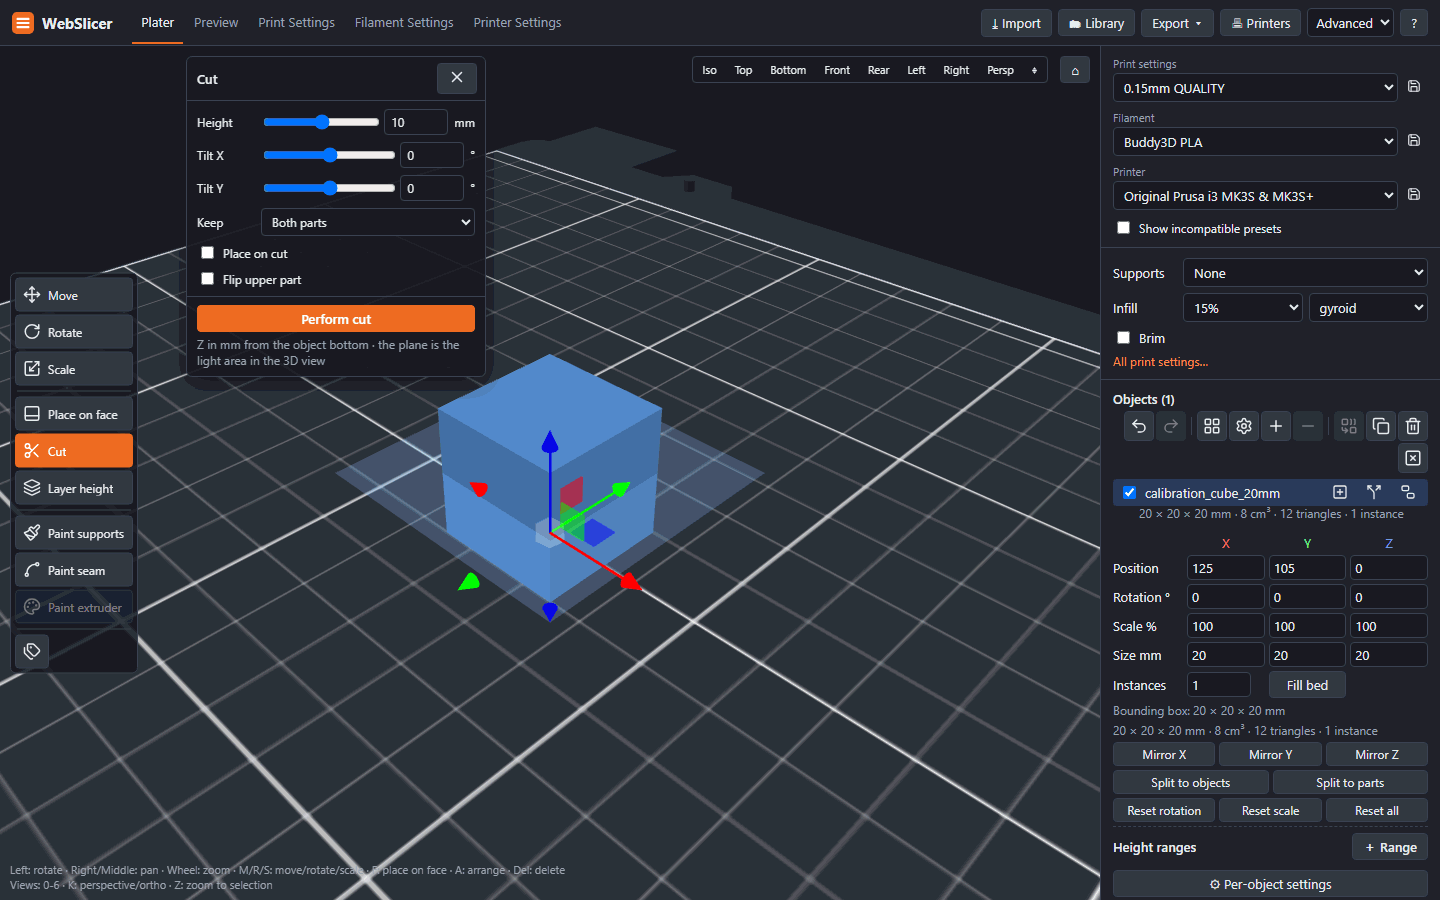
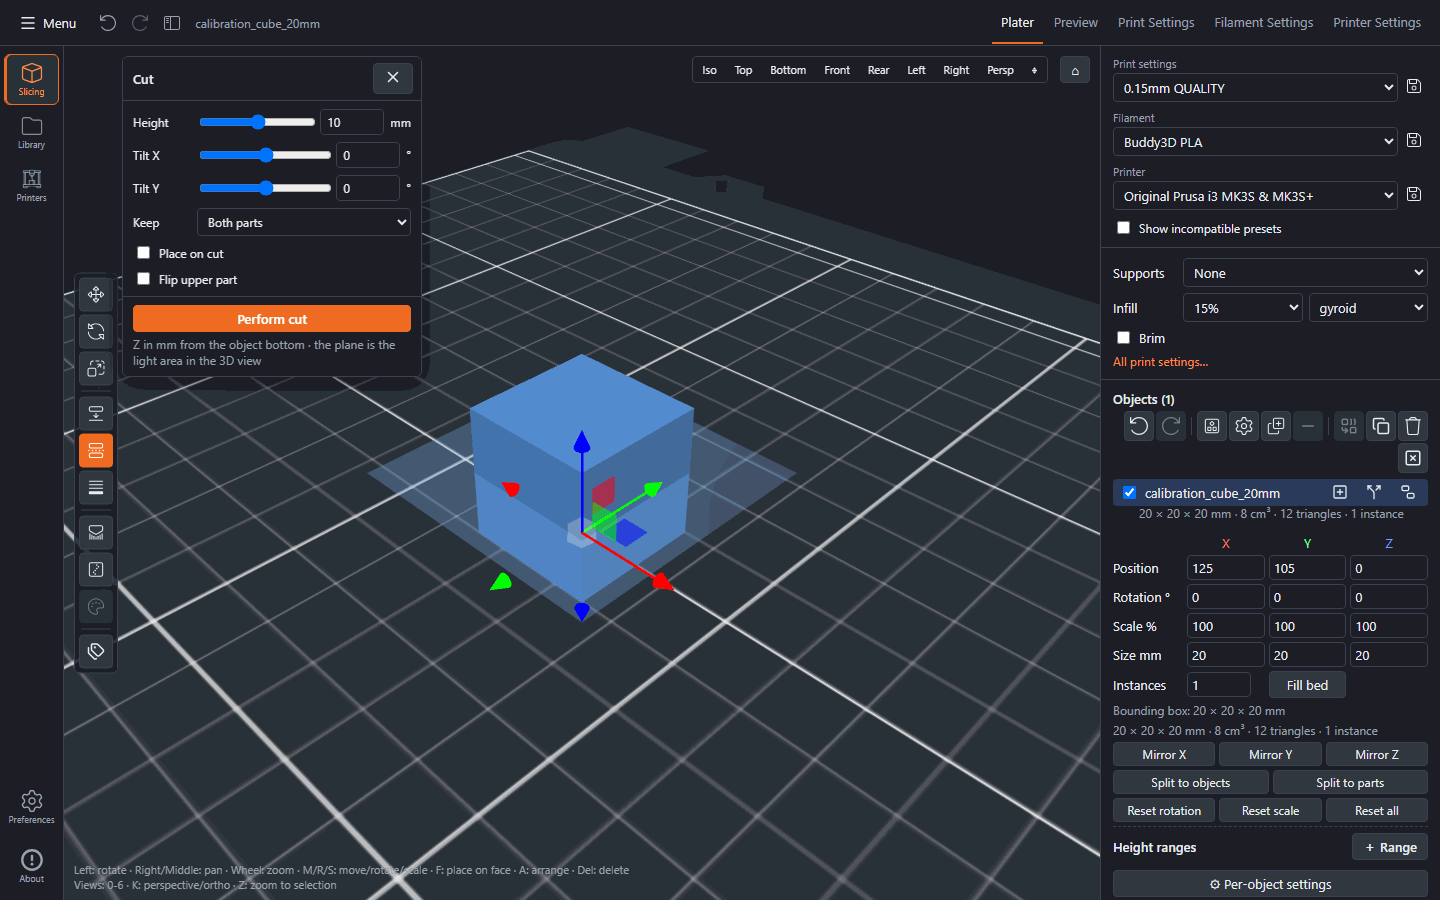
Tests and docs: the shell spec, the UAT row and the refreshed screenshots
The shell spec covers the rail's aria-current per view, the three dialogs the
rail opens, the menu with its export and mode submenus, the hide-panels toggle
across a reload, and the narrow layouts at 900 px and 360 px. The update spec
now measures the chip on the rail. docs/images is regenerated from the new
layout.

diff --git a/e2e/specs/shell.spec.ts b/e2e/specs/shell.spec.ts
@@ -1,0 +1,201 @@
+/**
+ * The app shell (layout 3.0, L-1): the rail, the slim top bar's menu, the hide-panels toggle and the
+ * narrow layouts.
+ *
+ * The specs drive the real controls – the rail buttons, the menu, the toggle – and read the store only
+ * for what the user cannot see (the persisted flag). The regions are located by their hooks, so a
+ * later step may move the pieces again without touching this file.
+ */
+import { CUBE, importFile, read, settle } from '../helpers/app';
+import { expect, test } from '../helpers/fixtures';
+import { byId } from '../helpers/hooks';
+import { dialogKind } from '../helpers/dom';
+import type { Page } from '@playwright/test';
+
+/** The scene container's width, and the size the renderer gave the canvas. */
+async function sceneSizes(app: Page) {
+  return app.evaluate(() => {
+    const zone = document.querySelector('.dropzone') as HTMLElement;
+    const canvas = document.querySelector('.viewer canvas') as HTMLCanvasElement;
+    return {
+      zone: Math.round(zone.getBoundingClientRect().width),
+      canvas: canvas ? Math.round(canvas.getBoundingClientRect().width) : 0,
+      buffer: canvas ? canvas.width : 0,
+    };
+  });
+}
+
+test.describe('shell: the rail and the slim top bar', () => {
+  test('the rail carries the app places and marks the current one', async ({ app }) => {
+    const rail = byId(app, 'rail');
+    await expect(rail).toBeVisible();
+    await expect(rail).toHaveAttribute('aria-label', 'Main');
+
+    // Slicing is the current place on the plater and in the preview; the settings views move it
+    for (const [hook, view] of [
+      ['rail-slicing', 'plater'],
+      ['rail-preferences', 'print'],
+      ['rail-preferences', 'filament'],
+      ['rail-preferences', 'printer'],
+      ['rail-slicing', 'preview'],
+    ] as const) {
+      await app.evaluate((v) => window.webslicer.getState().setView(v), view);
+      await app.waitForTimeout(300);
+      await expect(byId(app, hook)).toHaveAttribute('aria-current', 'page');
+    }
+    await app.evaluate(() => window.webslicer.getState().setView('plater'));
+    await app.waitForTimeout(300);
+    await expect(byId(app, 'rail-preferences')).not.toHaveAttribute('aria-current', 'page');
+  });
+
+  test('Library, Printers and About open their dialogs from the rail', async ({ app }) => {
+    for (const [hook, dialog] of [
+      ['rail-library', 'library'],
+      ['rail-printers', 'physicalPrinters'],
+      ['rail-about', 'about'],
+    ] as const) {
+      await byId(app, hook).click();
+      await app.waitForSelector('[data-testid="modal"]', { state: 'visible', timeout: 20_000 });
+      expect(await dialogKind(app)).toBe(dialog);
+      await app.keyboard.press('Escape');
+      await app.waitForTimeout(500);
+      expect(await dialogKind(app)).toBeUndefined();
+    }
+  });
+
+  test('the menu opens, lists the old top bar actions and closes on Escape with the focus back', async ({ app }) => {
+    const menu = byId(app, 'menu');
+    await expect(menu).toHaveAttribute('aria-expanded', 'false');
+    await menu.click();
+    await expect(menu).toHaveAttribute('aria-expanded', 'true');
+
+    const labels = await app
+      .locator('[data-testid="menu-panel"] [role="menuitem"]')
+      .allInnerTexts()
+      .then((texts) => texts.map((t) => t.replace(/\s+/g, ' ').trim()));
+    // every action the wide bar carried is reachable from here
+    expect(labels.join(' | ')).toContain('Import models');
+    expect(labels.join(' | ')).toContain('Import presets');
+    expect(labels.join(' | ')).toContain('Open from library');
+    expect(labels.join(' | ')).toContain('Save project to library');
+    expect(labels.join(' | ')).toContain('Export');
+    expect(labels.join(' | ')).toContain('Mode');
+    expect(labels.join(' | ')).toContain('Printers');
+    expect(labels.join(' | ')).toContain('About');
+
+    // the export submenu carries the six export entries of the old dropdown
+    await app.locator('[data-testid="menu-export"]').click();
+    await app.waitForTimeout(300);
+    const exports = await app
+      .locator('.app-menu-flyout[aria-label="Export"] [role="menuitem"]')
+      .allInnerTexts()
+      .then((texts) => texts.map((t) => t.trim()));
+    expect(exports).toEqual([
+      'Export project as 3MF',
+      'Export current settings (.ini)',
+      'Export presets (.ini bundle)',
+      'Export G-code',
+      'Save project to library…',
+      'Save G-code to library…',
+    ]);
+
+    // Escape closes the submenu first, the menu second, and the keyboard user keeps their place
+    await app.keyboard.press('Escape');
+    await app.waitForTimeout(200);
+    await expect(menu).toHaveAttribute('aria-expanded', 'true');
+    expect(await app.locator('[data-testid="menu-panel"]').count()).toBe(1);
+    expect(await app.locator('.app-menu-flyout[aria-label="Export"]').count()).toBe(0);
+
+    await app.keyboard.press('Escape');
+    await app.waitForTimeout(200);
+    await expect(menu).toHaveAttribute('aria-expanded', 'false');
+    expect(await app.locator('[data-testid="menu-panel"]').count()).toBe(0);
+    // the closed menu hands the focus back to its trigger
+    expect(await app.evaluate(() => document.activeElement?.getAttribute('data-testid'))).toBe('menu');
+  });
+
+  test('the menu switches the mode and opens the printers and About dialogs', async ({ app }) => {
+    await byId(app, 'menu').click();
+    await app.locator('[data-testid="menu-mode"]').click();
+    await app.waitForTimeout(300);
+    await app.locator('.app-menu-flyout[aria-label="Mode"] [role="menuitemradio"]', { hasText: 'Expert' }).click();
+    await app.waitForTimeout(400);
+    expect(await read(app, (s) => s.mode)).toBe('expert');
+    expect(await app.locator('[data-testid="menu-panel"]').count()).toBe(0);
+
+    // back to Advanced for the rest of the file
+    await app.evaluate(() => window.webslicer.getState().setMode('advanced'));
+    await app.waitForTimeout(300);
+  });
+
+  test('the hide-panels toggle frees the scene, survives a reload and keeps the canvas in step', async ({ app }) => {
+    await importFile(app, CUBE);
+    await settle(app, 800);
+
+    const shown = await sceneSizes(app);
+    expect(shown.zone).toBeGreaterThan(0);
+    await expect(byId(app, 'sidebar')).toBeVisible();
+
+    const toggle = byId(app, 'hide-panels');
+    await expect(toggle).toHaveAttribute('aria-pressed', 'false');
+    await toggle.click();
+    await settle(app, 800);
+
+    const hidden = await sceneSizes(app);
+    // the freed width is the sidebar's: the scene really grew, and the canvas followed it
+    expect(hidden.zone).toBeGreaterThan(shown.zone + 200);
+    expect(Math.abs(hidden.canvas - hidden.zone)).toBeLessThanOrEqual(2);
+    expect(Math.abs(hidden.buffer - hidden.canvas)).toBeLessThanOrEqual(4);
+    await expect(toggle).toHaveAttribute('aria-pressed', 'true');
+    expect(await app.locator('[data-testid="sidebar"]').isVisible()).toBe(false);
+
+    // the choice is remembered per browser
+    expect(await app.evaluate(() => localStorage.getItem('webslicer.panelsHidden'))).toBe('on');
+    await app.reload({ waitUntil: 'networkidle' });
+    await app.waitForFunction(() => !!window.webslicer && window.webslicer.getState().ready, null, { timeout: 90_000 });
+    await settle(app, 600);
+    await expect(byId(app, 'hide-panels')).toHaveAttribute('aria-pressed', 'true');
+    expect(await app.locator('[data-testid="sidebar"]').isVisible()).toBe(false);
+
+    // and back: the panels return and the scene shrinks again
+    await byId(app, 'hide-panels').click();
+    await settle(app, 800);
+    await expect(byId(app, 'sidebar')).toBeVisible();
+    expect((await sceneSizes(app)).zone).toBeLessThanOrEqual(shown.zone + 2);
+  });
+
+  test('the narrow layouts keep the app inside the window width', async ({ app }) => {
+    await importFile(app, CUBE);
+    await settle(app, 800);
+
+    // the tablet width: the rail is icons only, the names are gone from the DOM's paint
+    await app.setViewportSize({ width: 900, height: 700 });
+    await app.waitForTimeout(600);
+    expect(await app.locator('.rail-label').first().isVisible()).toBe(false);
+
+    // the phone width: the rail is a bottom tab bar with the names back, nothing overflows
+    await app.setViewportSize({ width: 360, height: 740 });
+    await app.waitForTimeout(800);
+    const narrow = await app.evaluate(() => {
+      const doc = document.documentElement;
+      const rail = document.querySelector('[data-testid="rail"]') as HTMLElement;
+      const scene = document.querySelector('.dropzone') as HTMLElement;
+      return {
+        overflow: doc.scrollWidth - doc.clientWidth,
+        // the tab bar sits under the scene, not beside it
+        railBelowScene: rail.getBoundingClientRect().top >= scene.getBoundingClientRect().bottom - 1,
+        labels: Array.from(document.querySelectorAll('.rail-label')).filter((el) => (el as HTMLElement).offsetParent !== null).length,
+      };
+    });
+    expect(narrow.overflow).toBeLessThanOrEqual(0);
+    expect(narrow.railBelowScene).toBe(true);
+    expect(narrow.labels).toBe(5);
+
+    // the bottom bar still navigates
+    await byId(app, 'rail-about').click();
+    await app.waitForSelector('[data-testid="modal"]', { state: 'visible', timeout: 20_000 });
+    expect(await dialogKind(app)).toBe('about');
+    await app.keyboard.press('Escape');
+    await app.waitForTimeout(500);
+  });
+});

diff --git a/e2e/specs/update.spec.ts b/e2e/specs/update.spec.ts
@@ -1,7 +1,7 @@
 /**
- * The update notice (T-058): the server's answer to `GET /api/update-status` reaches the top bar as a
- * quiet chip and the About dialog as one row. Nothing appears when the install is current or the check
- * is switched off, and dismissing is remembered per `latest` value.
+ * The update notice (T-058): the server's answer to `GET /api/update-status` reaches the rail's About
+ * item as a quiet chip and the About dialog as one row. Nothing appears when the install is current or
+ * the check is switched off, and dismissing is remembered per `latest` value.
  *
  * The answer is mocked through route interception and applied with the store's own
  * `refreshUpdateStatus()`, so the spec exercises the same fetch → store → render path a real server
@@ -98,21 +98,23 @@ test.describe('update notice: chip, About row and dismissal', () => {
     await expect(chip).toHaveAttribute('aria-label', 'Update available · v1.1.0');
     await expect(chip.locator('a')).toHaveAttribute('href', 'https://github.com/movieaddicted86/webslicer/releases/tag/v1.1.0');
 
-    // the mobile layout keeps the one-liner inside the top bar
+    // the mobile layout keeps the chip inside the rail's bottom bar, and nothing overflows the window
     await app.setViewportSize({ width: 320, height: 640 });
     await app.waitForTimeout(500);
     const overflow = await app.evaluate(() => {
-      const top = document.querySelector('.topbar') as HTMLElement;
+      const rail = document.querySelector('[data-testid="rail"]') as HTMLElement;
       const chip = document.querySelector('.update-chip') as HTMLElement;
       return {
-        top: top.scrollWidth - top.clientWidth,
+        rail: rail.scrollWidth - rail.clientWidth,
+        doc: document.documentElement.scrollWidth - document.documentElement.clientWidth,
         chip: chip.getBoundingClientRect().right - window.innerWidth,
         height: Math.round(chip.getBoundingClientRect().height),
       };
     });
-    expect(overflow.top).toBeLessThanOrEqual(0);
+    expect(overflow.rail).toBeLessThanOrEqual(0);
+    expect(overflow.doc).toBeLessThanOrEqual(0);
     expect(overflow.chip).toBeLessThanOrEqual(0);
-    // one line, not a wrapped block
+    // one compact badge, not a wrapped block
     expect(overflow.height).toBeLessThan(40);
   });
 

diff --git a/e2e/hooks.test.ts b/e2e/hooks.test.ts
@@ -144,6 +144,14 @@ test('every allowed legacy selector still occurs, so the allow-list cannot rot',
 const HOOKS = [
   'app-shell',
   'top-bar',
+  'rail',
+  'rail-slicing',
+  'rail-library',
+  'rail-printers',
+  'rail-preferences',
+  'rail-about',
+  'menu',
+  'hide-panels',
   'sidebar',
   'presets',
   'preset-select',

diff --git a/docs/UAT.md b/docs/UAT.md
@@ -64,6 +64,7 @@ browser and screenshot.
 | UAT-38 | Tool bar labels and the tidy object toolbar (T-055) | Open the app at 1600 × 900, load `calibration_cube_20mm.stl` and look at the left tool bar; then narrow the window to 1100 × 800. Click the **tags** button at the bottom of the bar and reload the page; click it again at the wide width. Look at the object toolbar of the Objects section. | In the 1600 × 900 window (about 1260 px of 3D view) every tool shows a short label next to its icon: Move, Rotate, Scale, Place on face, Cut, Layer height, Paint supports, Paint seam, Paint extruder. At 1100 × 800 the view is narrower than 1100 px, so only the icons show (tooltips unchanged). The bar is never wider than ~170 px. The toggle flips the labels whatever the width, the choice survives a reload (`webslicer.toolLabels`) and the button is highlighted once a choice was made. The object toolbar holds undo/redo, arrange and its gear, instances, merge, duplicate, delete and delete all only – no move/rotate/scale, place on face or cut – and Simple mode is the same; pressing M/R/S/F/C still works. |
 | UAT-39 | Vendor profile updates (T-060) | Open **Printers → Vendor profiles**. With the default switch the list shows every vendor as _installed → available_ and a **Check for updates** button. Where a newer bundle is offered, press **Update** (or **Update all**). Then set `WEBSLICER_UPDATE_CHECK=off`, restart, and open the tab again; afterwards install a vendor `.ini` from disk with **Install from file**. | With the switch on the check runs at most once a day, nothing is installed without a click, and **Update** changes the version line ("2.4.14 → 2.4.15") and reports it; **Revert** restores the previous bundle. A bundle that breaks a configuration limit (or injects a key) is refused with its preset and rule listed and the installed bundle stays. With the switch off the tab reads "Online updates are disabled" and offers the file input; a valid file installs, an invalid one is refused with its reasons. |
 | UAT-40 | Configuration wizard (T-061) | Open **Printers → Filaments**, filter for a material (e.g. "PETG"), press **All** in one vendor group and **Apply**. Look at the filament selector, reload the page, then tick **Show all filaments**. In **Custom printer**, fill the first step, press **Next**, set the other-layer temperature to 2150 °C, then to 215 and press **Save**. | The selector only offers the ticked system filaments, every user preset, the defaults and the active filament; the choice survives the reload; **Show all filaments** shows the full list again for the session. The second step shows 215/215 °C, 60/60 °C and 1.75 mm; 2150 °C turns the field red, names the limit and disables **Save** (the API refuses it as well, 400). A valid Save creates the printer and the `<printer> – Generic` filament preset and selects both; the filament selector shows the new filament at once. |
+| UAT-41 | App shell, rail and menu (T-064) | Open the app at 1440 × 900. Press every rail item in turn: **Slicing**, **Library**, **Printers**, **Preferences**, **About**. Open the **Menu** (top left) and walk through its entries, the **Export** and **Mode** submenus included; close it with **Esc**. Load `calibration_cube_20mm.stl`, press **Undo**/**Redo** in the top bar, then the **hide panels** button; reload. Narrow the window to 900 × 700, then to 360 × 740, and press the rail items again. | The rail is the far-left column with icon and name; **Slicing** is orange on the plater and in the preview, **Preferences** on the Print/Filament/Printer views, and each item carries `aria-current="page"` while it is the current place. Library, Printers and About open their dialogs as before, and About shows the update notice above it when one exists. The menu holds Import models (Ctrl+I still works), Import presets, Open from library, Save project to library, Export (3MF, settings, presets bundle, G-code, save project/G-code) and Mode (Simple/Advanced/Expert, the ticked one marked), Printers and About; Esc closes the submenu first and the menu second and leaves the focus on the Menu button. Undo and redo are greyed out while their stack is empty and work as Ctrl+Z / Ctrl+Shift+Z. The hide-panels button removes the sidebar and the 3D view takes its width (the canvas follows, no stale size), the button stays highlighted, and the state survives a reload; pressing it again brings the panels back at their previous scroll position. At 900 px the rail shows icons only; at 360 px it is a bottom tab bar with the names, the sidebar moves below the 3D view and nothing scrolls sideways. |
 
 ## Known limitations (rc.2)
 

diff --git a/docs/development.md b/docs/development.md
@@ -46,6 +46,34 @@ the server builds a 3MF from all objects + transforms, writes the merged configu
 (print + filament(s) + printer) as `config.ini` and calls
 `prusa-slicer --export-gcode --load config.ini --dont-arrange model.3mf`.
 
+## The app shell
+
+`web/src/components/AppShell.tsx` is the frame; `App.tsx` only starts the session and renders it.
+One CSS grid in `AppShell.css` lays the app out, named by area:
+
+```
+rail | left | scene | right          (top bar spans all four)
+ 64px   0     1fr     --sidebar-w
+```
+
+- **rail** – `Rail.tsx`: the app's places (Slicing, Library, Printers, Preferences, About) and the
+  update notice. It becomes a bottom tab bar below 640 px.
+- **left** – reserved for the object list (layout step L-2); the track is 0 px until then.
+- **scene** – the `DropZone` with the `Viewer`; three.js resizes through its `ResizeObserver`, so the
+  canvas follows the grid without a second resize path.
+- **right** – the existing `Sidebar`, unchanged.
+- The settings views (Print/Filament/Printer) replace scene and sidebar and take the whole area right
+  of the rail.
+- The top bar (`TopBar.tsx`) is one row: the `Menu` dropdown (`AppMenu.tsx`), undo/redo, the
+  hide-panels switch, the project name and the view tabs.
+
+The only shell state is the `layout` slice (`web/src/state/slices/layout.ts`): `panelsHidden`, persisted
+in `localStorage` behind a try/catch. Hiding the panels takes the sidebar out of the grid (it stays
+mounted, so its state survives) and the scene takes the freed width. New regions carry a
+`data-testid` hook (`rail`, `rail-slicing`, `menu`, `hide-panels`, …); `e2e/hooks.test.ts` keeps that
+list and the components in agreement, so a later layout step can move a region without rewriting the
+specs. The design is in [design/Layout-3.0.md](design/Layout-3.0.md).
+
 ## Icons
 
 Every icon is addressed by the function it performs, never by its picture: components use

diff --git a/docs/features.md b/docs/features.md
@@ -4,6 +4,18 @@ The short list is in the [README](../README.md); this page keeps the full descri
 PrusaSlicer feature exists here and which does not is in
 [Feature-Comparison.md](Feature-Comparison.md); what is still planned is in [TODO.md](../TODO.md).
 
+## Window
+
+- **Rail on the far left**: _Slicing_ (the plater and the preview), _Library_, _Printers_; at the
+  bottom _Preferences_ (the print, filament and printer settings) and _About_, which also carries the
+  update notice. The current place is marked in orange; on a narrow window the names drop away and on a
+  phone the rail becomes a bottom tab bar.
+- **Slim top bar**: the **Menu** (import models and presets, open from the library, save the project,
+  the export list, the Simple / Advanced / Expert mode, printers, About), undo and redo, a **hide the
+  side panels** switch that gives the 3D view the full width (remembered per browser), the project name
+  and the view tabs _Plater / Preview / Print / Filament / Printer_. Every action of the wide top bar
+  is still there, one click away.
+
 ## Plater
 
 - **3D plater** (Three.js): import STL / OBJ / 3MF / AMF / STEP (drag & drop; STEP is converted on the
